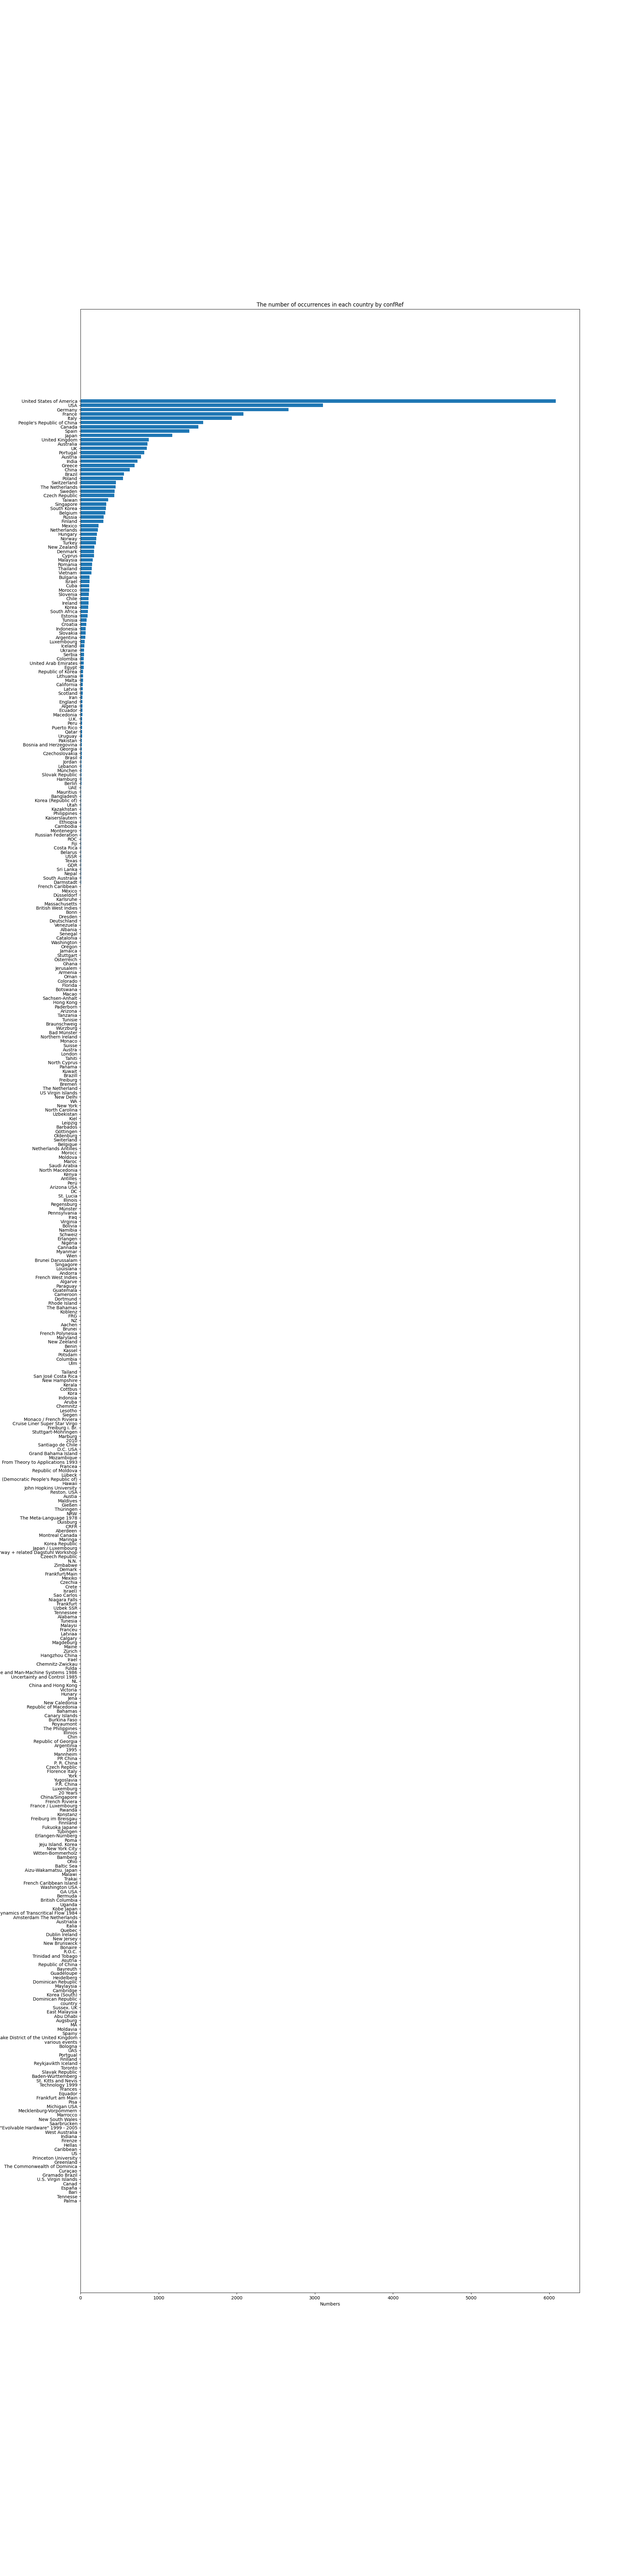
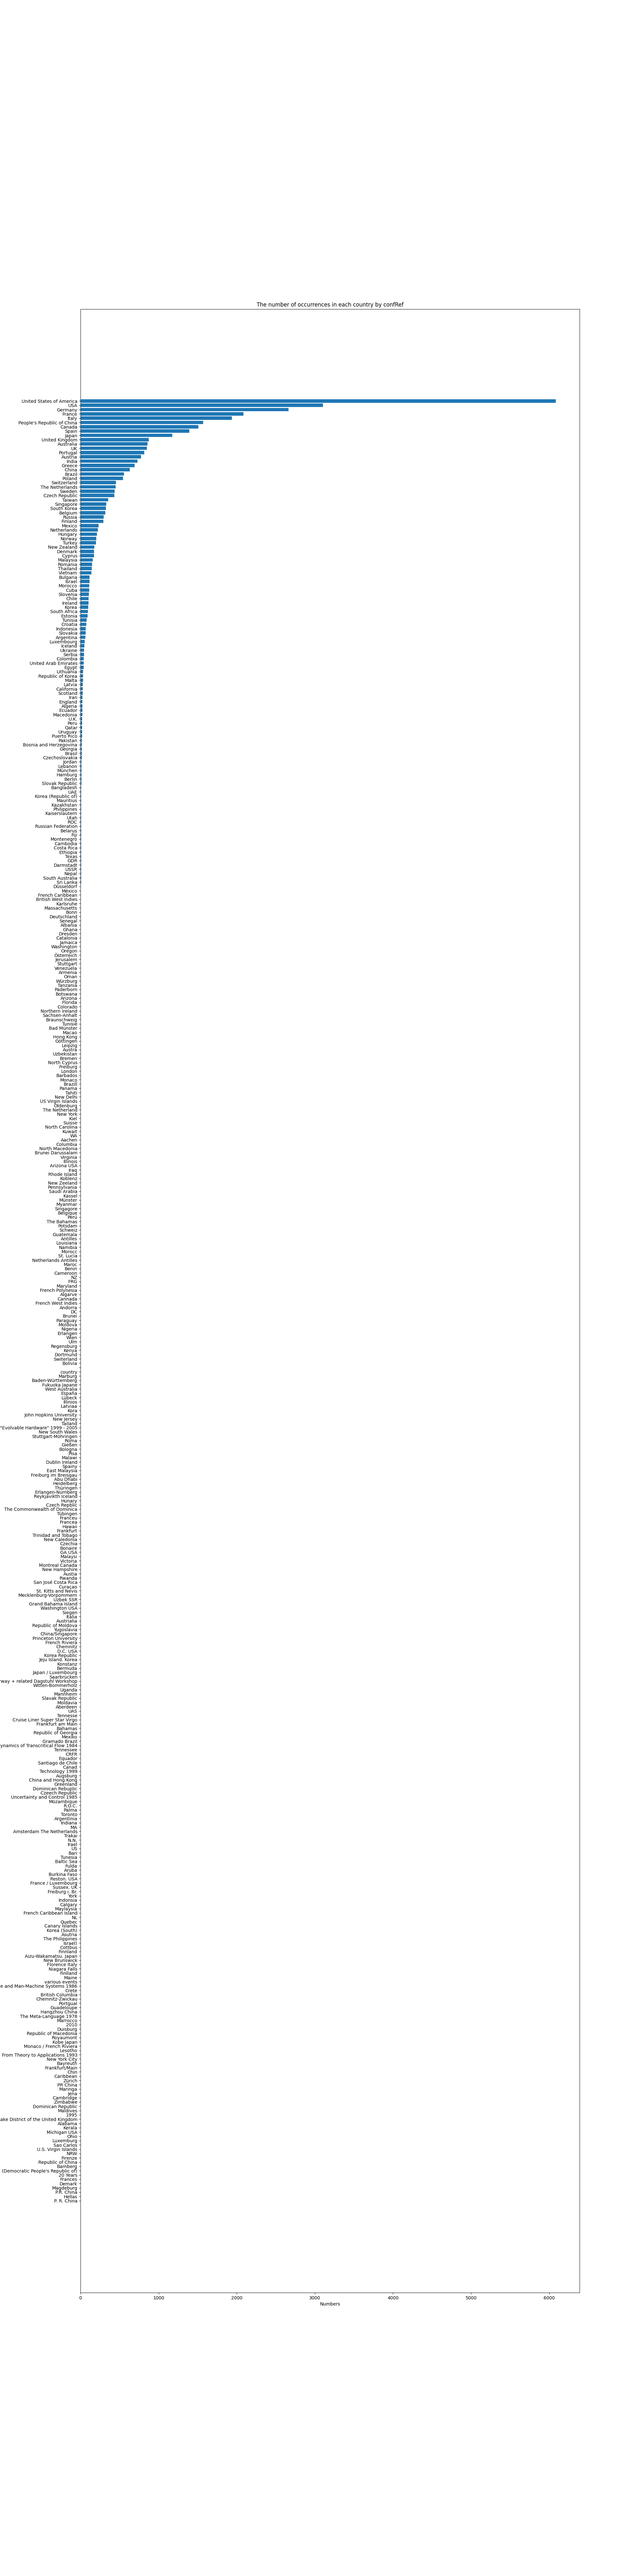
Add files via upload

Changed region(s): [[0.031, 0.2812, 0.124, 0.875]]

diff --git a/csv file export-processing/wikiCfp/matplotlib-wikiCfp.py b/csv file export-processing/wikiCfp/matplotlib-wikiCfp.py
@@ -30,7 +30,7 @@ for Info in countryInfo:
 
 plt.figure(figsize=(20, 50))
 plt.barh(x,y)
-plt.title("The number of occurrences in each country by confRef")
+plt.title("The number of occurrences in each country by wikiCfp")
 plt.xlabel('Numbers')
 plt.ylabel('countryName')
 plt.savefig('wikiCfp.png')
